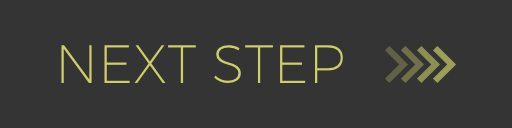
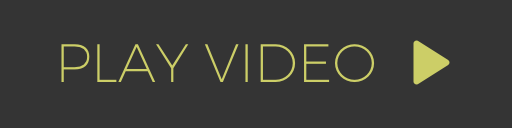
MOD start video on click

Changed region(s): [[0.125, 0.3438, 0.7188, 0.6562], [0.7188, 0.3125, 0.9062, 0.6562]]

diff --git a/index.html b/index.html
@@ -10,7 +10,7 @@
     <script src="aframe-animation-component.js"></script>
     <!-- <script src="https://npmcdn.com/aframe-event-set-component@3.0.1"></script> -->
     <script src="aframe-event-set-component.js"></script>
-    <script src="components/set-image.js"></script>
+    <script src="components/play-video.js"></script>
   </head>
   <body>
     <a-scene>
@@ -21,22 +21,22 @@
       </a-assets>
 
       <!-- 360-degree image. -->
-      <a-sky id="image-360" radius="10" src="#pano" phi-start="290" key="13"></a-sky>
+      <a-sky id="image-360" radius="10" src="#pano" phi-start="90" key="13"></a-sky>
 
       <!-- Image links. -->
       <a-entity id="link" class="link"
-          layout="type: line; margin: 1.5" position="-3 -1 0" rotation="0 90 0"
+          layout="type: line; margin: 1.5" position="-2 -1 -4" rotation="0 45 0"
           geometry="primitive: plane; height: 0.2345; width: 1"
           material="shader: flat; src: #button"
           event-set__1="_event: mousedown; scale: 1 1 1"
           event-set__2="_event: mouseup; scale: 1.2 1.2 1"
           event-set__3="_event: mouseenter; scale: 1.2 1.2 1"
           event-set__4="_event: mouseleave; scale: 1 1 1"
-          set-image="on: click; target: #image-360; src: #tour_1; dur: 750; key: 0"
+          play-video="on: click;"
           sound="on: click; src: #click-sound"></a-entity>
 
       <!-- Camera + cursor. -->
-      <a-entity camera look-controls>
+      <a-entity camera look-controls rotation="340 0 0">
         <a-cursor id="cursor"
           animation__click="property: scale; startEvents: click; from: 0.1 0.1 0.1; to: 1 1 1; dur: 150"
           animation__fusing="property: fusing; startEvents: fusing; from: 1 1 1; to: 0.1 0.1 0.1; dur: 1500"

diff --git a/components/play-video.js b/components/play-video.js
@@ -1,0 +1,27 @@
+/* global AFRAME */
+
+/**
+ * Component that listens to an event, fades out an entity, swaps the texture, and fades it
+ * back in.
+ */
+AFRAME.registerComponent('play-video', {
+  schema: {
+    on: {type: 'string'},
+  },
+
+  init: function () {
+    var el = this.el;
+    var data = this.data;
+    var url = '<iframe width="560" height="315" src="https://www.youtube.com/embed/VFkCGz28QQ8" frameborder="0" gesture="media" allow="encrypted-media" id="video" allowfullscreen></iframe>';
+    var video;
+
+
+    el.addEventListener(data.on, function () {
+      var div = document.createElement('div');
+      document.body.appendChild(div).innerHTML = url;
+      div.style = 'position: absolute; top: 50%; left: 50%; transform: translate(-50%, -50%);';
+
+      video = document.getElementById('video').src += "?rel=0&autoplay=1";
+    });
+  }
+});
